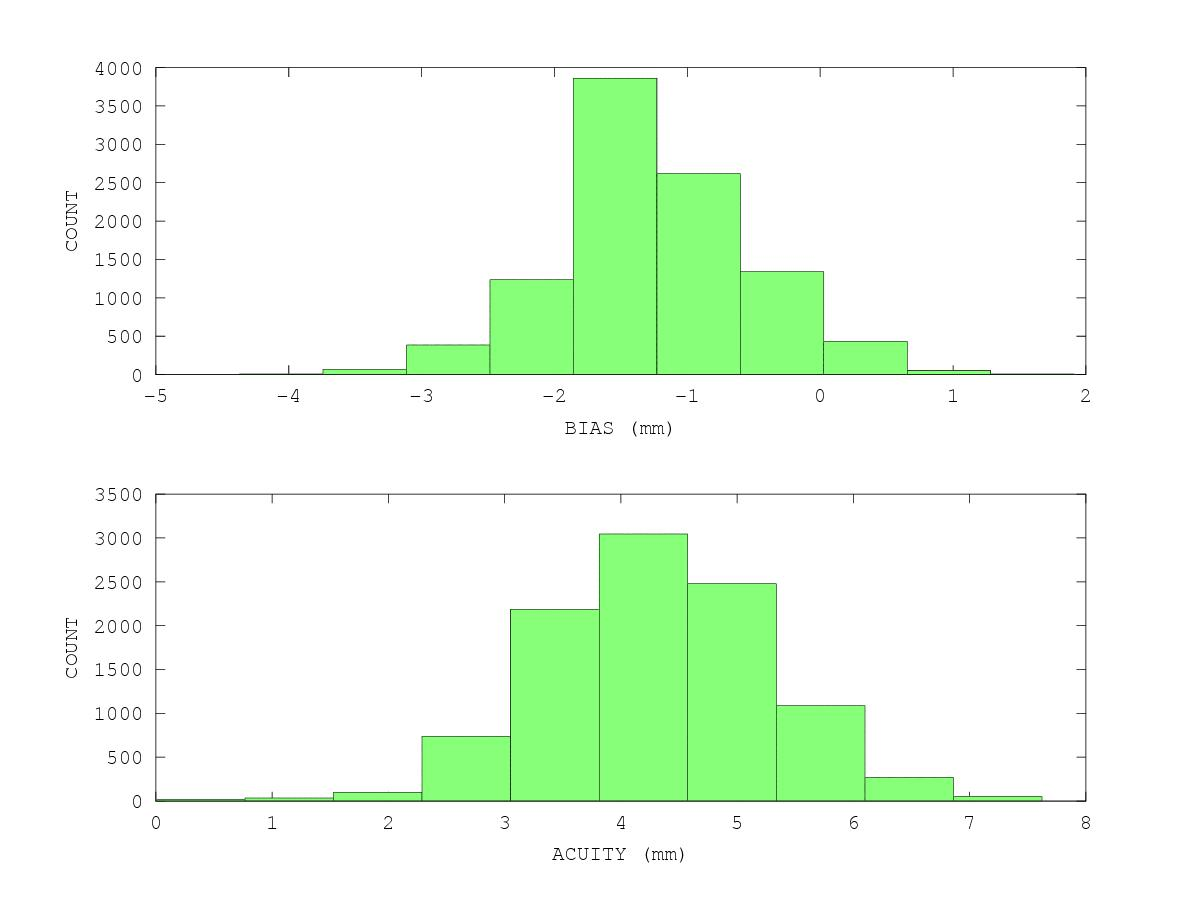
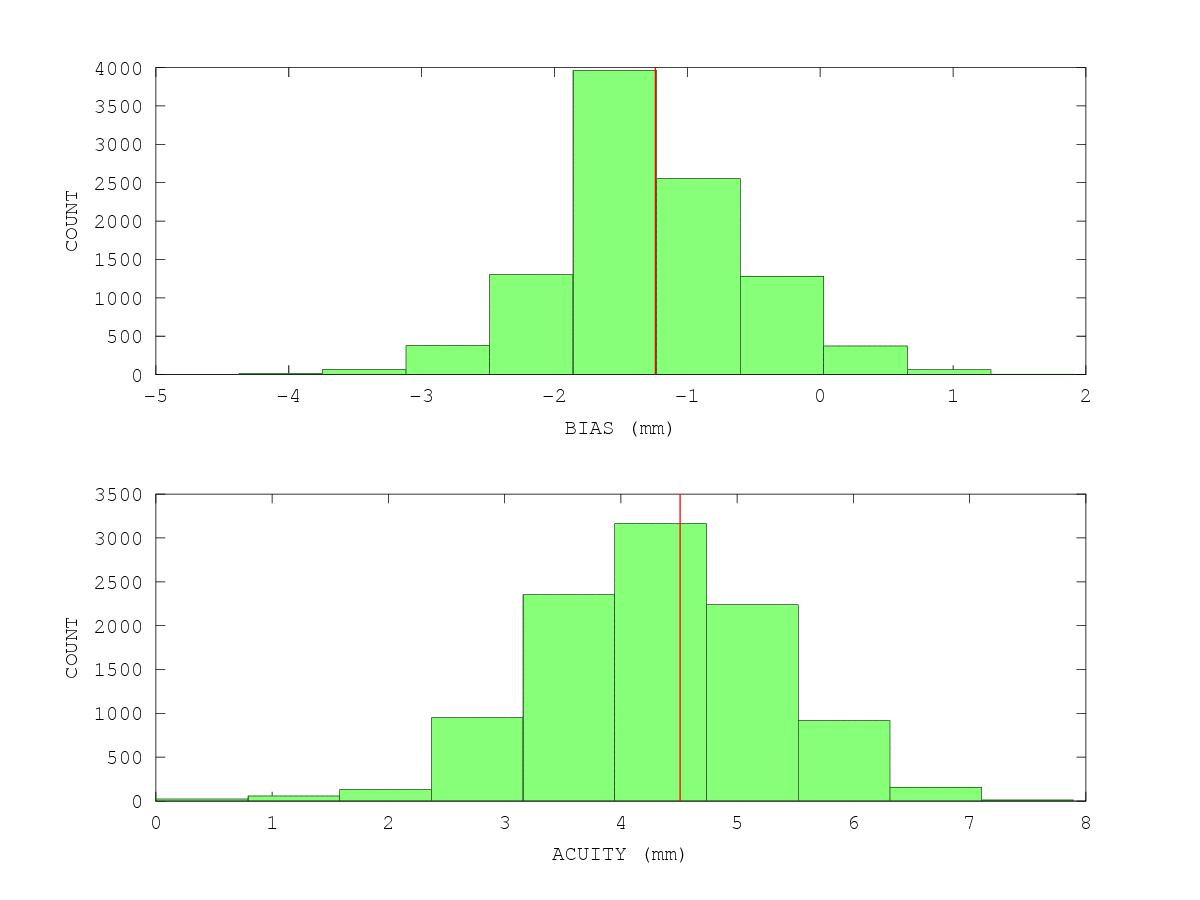
plots

diff --git a/README.md b/README.md
@@ -75,10 +75,13 @@ You can have a look at the bootstrap distributions of the parameters like so: he
 	hist(exdata_dist(:,3))
 	xlabel('BIAS (mm)')
 	ylabel('COUNT')
+	load exdata_params
+	line([exdata_params(3) exdata_params(3)],get(gca,'ylim'),'color','r','linewidth',2)
 	subplot(2,1,2)
 	hist(exdata_dist(:,7))
 	xlabel('ACUITY (mm)')
 	ylabel('COUNT')
-	print exdata_dist.jpg -djpg
+	line([exdata_params(7) exdata_params(7)],get(gca,'ylim'),'color','r','linewidth',2)
+	print exdata_dist.pdf -dpdf
 
-![Image](exdata_dist.jpg)
+![Image](exdata_dist.pdf)
